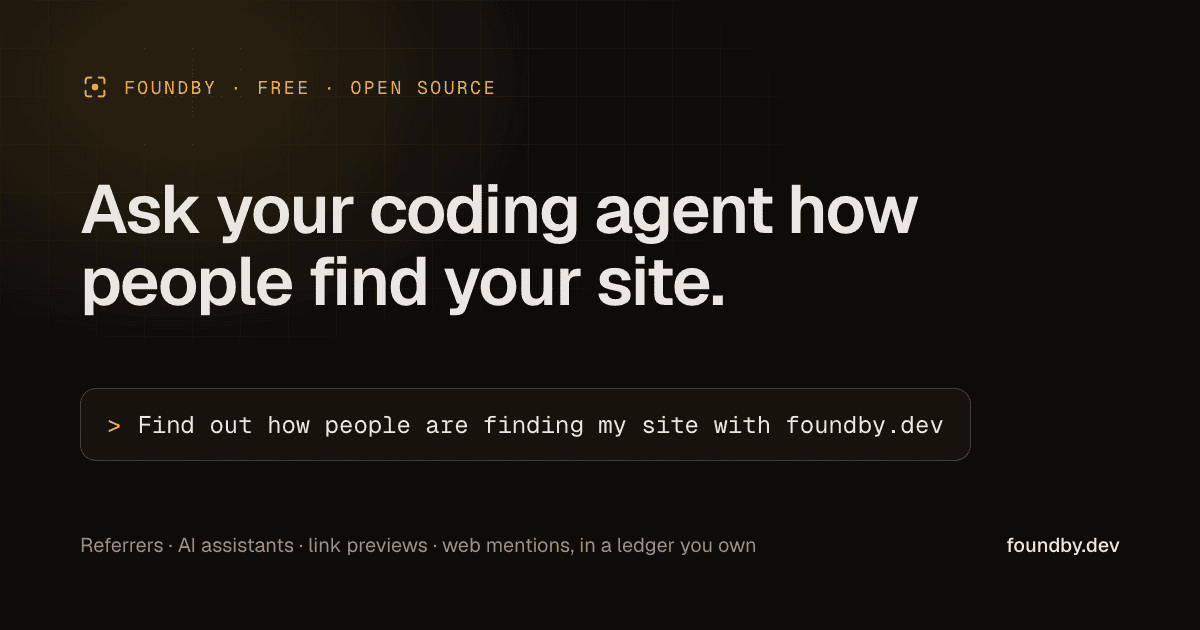
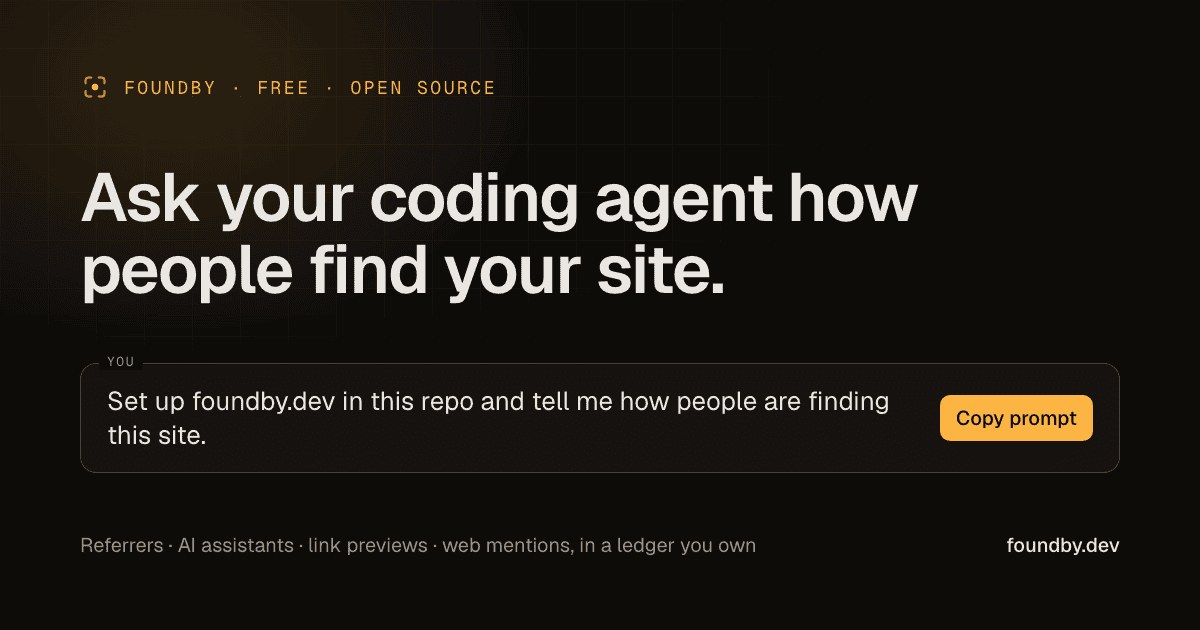
site: hero as a conversation, prompt as the install
The landing page CTA is a prompt to paste into a coding agent, so the
hero now stages it as one session: a "you" card holding the prompt with
the page's single amber Copy button, a faded connector explaining what
the agent does, and a "your agent" card with the report as the reply.
On load the prompt types itself, the connector fades in with its dotted
rule flowing downward, then the report lines arrive. Reduced motion and
no-JS get the complete static page.

Prompt reworded to "Set up foundby.dev in this repo and tell me how
people are finding this site." in index.html, llms.txt and README. OG
card redrawn to match and og.png regenerated.

Also: shorter lede, nav in page order, hero report trimmed to fit
without horizontal scroll, ledger excerpt under the How it works cards,
sources table stacks on phones, two new FAQ entries (what the prompt
does to the repo, manual install), manual-install hint moved out of the
hero, dim text lifted for contrast, prompt no longer hidden from screen
readers by an aria-label, copy_prompt GA event.

diff --git a/site/public/index.html b/site/public/index.html
@@ -83,7 +83,7 @@ gtag('js', new Date());
   :root {
     color-scheme: dark;
     --bg: oklch(0.155 0.006 70); --card: oklch(0.19 0.006 70); --card-2: oklch(0.215 0.006 70);
-    --fg: oklch(0.93 0.006 80); --muted: oklch(0.66 0.01 75); --dim: oklch(0.5 0.01 75);
+    --fg: oklch(0.93 0.006 80); --muted: oklch(0.68 0.01 75); --dim: oklch(0.58 0.01 75);
     --border: oklch(1 0 0 / 9%); --border-2: oklch(1 0 0 / 16%);
     --primary: oklch(0.82 0.15 75); --primary-fg: oklch(0.16 0.03 70); --primary-dim: oklch(0.82 0.15 75 / 14%);
     --link: oklch(0.8 0.08 230);
@@ -108,24 +108,39 @@ gtag('js', new Date());
   .hero { position: relative; padding: 56px 0 24px }
   .hero-glow { position: absolute; left: -10%; top: -40px; width: 60%; height: 320px; background: radial-gradient(ellipse at 30% 30%, oklch(0.82 0.15 75 / 12%), transparent 65%); pointer-events: none; filter: blur(10px) }
   h1 { font-size: clamp(2.1rem, 5.2vw, 3.4rem); line-height: 1.08; letter-spacing: -0.025em; font-weight: 600; margin: 0 0 20px; max-width: 760px; text-wrap: balance }
-  .lede { font-size: 1.15rem; color: var(--muted); max-width: 640px; margin: 0 0 30px }
-  .cta { display: flex; flex-wrap: wrap; gap: 12px; align-items: stretch; margin-bottom: 14px }
-  .prompt { display: flex; align-items: center; gap: 14px; background: var(--card); border: 1px solid var(--border-2); border-radius: 12px; padding: 14px 16px 14px 18px; font-family: var(--mono); font-size: 15px; cursor: pointer; text-align: left; color: var(--fg); max-width: 100%; transition: border-color .15s, box-shadow .15s }
-  .prompt:hover { border-color: var(--primary); box-shadow: 0 0 0 4px var(--primary-dim) }
-  .prompt .q { color: var(--primary) }
-  .prompt .copy { font-family: var(--sans); font-size: 12.5px; color: var(--muted); border: 1px solid var(--border); border-radius: 6px; padding: 3px 9px; white-space: nowrap }
-  .prompt.done .copy { color: var(--primary); border-color: var(--primary) }
-  .btn { display: inline-flex; align-items: center; gap: 8px; border-radius: 10px; padding: 12px 18px; font-weight: 500; font-size: 15px; border: 1px solid var(--border-2); color: var(--fg); background: transparent; text-decoration: none }
+  .lede { font-size: 1.15rem; color: var(--muted); max-width: 620px; margin: 0 0 36px }
+
+  /* The session: your turn (the prompt), then the agent's turn (the report). */
+  .turn { position: relative; border: 1px solid var(--border-2); border-radius: 14px; background: var(--card) }
+  .turn .who { position: absolute; top: -9px; left: 16px; font-family: var(--mono); font-size: .66rem; letter-spacing: .12em; text-transform: uppercase; color: var(--muted); background: var(--bg); padding: 0 7px; line-height: 18px }
+  .turn.you { display: flex; flex-wrap: wrap; align-items: center; justify-content: space-between; gap: 14px 24px; padding: 24px 20px 20px 24px; cursor: pointer; transition: border-color .15s, box-shadow .15s }
+  .turn.you:hover, .turn.you:focus-within { border-color: var(--primary); box-shadow: 0 0 0 4px var(--primary-dim) }
+  .turn.you .say { flex: 1 1 360px; margin: 0; font-size: 1.25rem; line-height: 1.4; letter-spacing: -0.012em; min-height: 1.4em }
+  .turn.you .say::after { content: ''; display: inline-block; width: 2px; height: 1.05em; background: var(--primary); margin-left: 3px; vertical-align: -0.18em; opacity: 0 }
+  .turn.you.typing .say::after { opacity: 1; animation: blink 1s steps(1) infinite }
+  @keyframes blink { 50% { opacity: 0 } }
+  .btn { display: inline-flex; align-items: center; gap: 8px; border-radius: 10px; padding: 12px 18px; font-weight: 500; font-size: 15px; border: 1px solid var(--border-2); color: var(--fg); background: transparent; text-decoration: none; font-family: var(--sans); cursor: pointer; white-space: nowrap }
   .btn:hover { text-decoration: none; border-color: var(--fg) }
   .btn.primary { background: var(--primary); color: var(--primary-fg); border-color: var(--primary) }
   .btn.primary:hover { filter: brightness(1.05) }
-  .hint { color: var(--dim); font-size: 14px; margin: 0 0 44px }
-  .hint code { color: var(--muted); font-size: 13px }
-  .term { background: oklch(0.12 0.005 70); border: 1px solid var(--border-2); border-radius: 14px; overflow: hidden; box-shadow: 0 30px 80px -30px oklch(0 0 0 / 60%) }
-  .term .bar { display: flex; align-items: center; gap: 8px; padding: 10px 14px; border-bottom: 1px solid var(--border); font-family: var(--mono); font-size: 12.5px; color: var(--muted) }
-  .term .bar i { width: 10px; height: 10px; border-radius: 50%; background: oklch(0.35 0.01 70); display: inline-block } .term .bar i:first-child { background: oklch(0.6 0.15 25) }
-  .term pre { margin: 0; padding: 18px 20px; font-size: 13px; line-height: 1.55; overflow-x: auto; color: oklch(0.85 0.006 80) }
-  .term .k { color: var(--primary) } .term .d { color: var(--dim) } .term .u { color: var(--link) }
+  .btn svg { width: 16px; height: 16px; flex: none }
+  .btn.copied { background: transparent; color: var(--primary); border-color: var(--primary) }
+  .between { display: flex; gap: 18px; align-items: flex-start; margin: 38px 0 42px 24px; color: var(--dim); font-size: 14.5px; line-height: 1.85; max-width: 720px; transition: opacity .6s }
+  .between::before { content: ''; flex: none; width: 2px; align-self: stretch; margin: 2px 0; background: linear-gradient(180deg, var(--border-2) 0 3px, transparent 3px 7px) 0 0 / 2px 7px repeat-y }
+  .between.flow::before { background-image: linear-gradient(180deg, var(--muted) 0 3px, transparent 3px 7px); animation: flow .6s linear infinite }
+  @keyframes flow { to { background-position: 0 7px } }
+  .js .between.pending { opacity: 0 }
+  .between p { margin: 0 }
+  .between code { color: var(--muted); font-size: 13px }
+  .turn.agent { background: oklch(0.12 0.005 70); box-shadow: 0 30px 80px -30px oklch(0 0 0 / 60%) }
+  .turn.agent pre { margin: 0; padding: 24px 20px 18px; font-size: 13px; line-height: 1.55; overflow-x: auto; color: oklch(0.85 0.006 80) }
+  .turn.agent .k { color: var(--primary) } .turn.agent .d { color: var(--dim) } .turn.agent .u { color: var(--link) }
+  .turn.agent { transition: opacity .5s } .js .turn.agent:not(.show) { opacity: 0 } .js .turn.agent:not(.show) .ln { opacity: 0 }
+  .turn.agent.show .ln { animation: rise .5s cubic-bezier(.2,.7,.2,1) both; animation-delay: calc(var(--i, 0) * 90ms) }
+  .hint { color: var(--dim); font-size: 14px; margin: 16px 0 0 }
+  .hint code { color: var(--fg); font-size: 13px; background: var(--card-2); border: 1px solid var(--border-2); border-radius: 6px; padding: 2px 7px; margin: 0 1px }
+  .hint a { color: var(--dim); text-decoration: underline; text-decoration-color: var(--border-2); text-underline-offset: 3px } .hint a:hover { color: var(--muted); text-decoration-color: var(--muted) }
+
   section { padding: 64px 0 0 }
   .section-head { display: flex; align-items: center; gap: 0.75rem; font-family: var(--mono); font-size: 0.7rem; letter-spacing: 0.14em; text-transform: uppercase; color: var(--primary); white-space: nowrap; margin: 0 0 14px }
   .section-head::before { content: ''; width: 1.25rem; height: 2px; background: var(--primary); opacity: .8 }
@@ -137,6 +152,10 @@ gtag('js', new Date());
   .card { background: var(--card); border: 1px solid var(--border); border-radius: 12px; padding: 18px 20px }
   .card .n { font-family: var(--mono); font-size: 0.7rem; letter-spacing: .12em; color: var(--primary); margin-bottom: 8px }
   .card p { color: var(--muted); font-size: 14.5px; margin: 0 }
+  .file { background: oklch(0.12 0.005 70); border: 1px solid var(--border); border-radius: 12px; overflow: hidden; margin-top: 14px }
+  .file .tab { display: flex; justify-content: space-between; gap: 12px; padding: 9px 16px; border-bottom: 1px solid var(--border); font-family: var(--mono); font-size: 12.5px; color: var(--muted) }
+  .file pre { margin: 0; padding: 16px 18px; font-size: 13px; line-height: 1.6; overflow-x: auto; color: oklch(0.85 0.006 80) }
+  .file .k { color: var(--primary) } .file .d { color: var(--dim) } .file .n2 { color: oklch(0.8 0.06 150) }
   table { width: 100%; border-collapse: collapse; font-size: 14.5px }
   th, td { text-align: left; padding: 10px 12px; border-bottom: 1px solid var(--border); vertical-align: top }
   th { font-family: var(--mono); font-size: .66rem; letter-spacing: .12em; text-transform: uppercase; color: var(--muted); font-weight: 500 }
@@ -151,8 +170,16 @@ gtag('js', new Date());
   footer a { color: var(--muted) }
   .rise { animation: rise .6s cubic-bezier(.2,.7,.2,1) both; animation-delay: calc(var(--i, 0) * 70ms) }
   @keyframes rise { from { opacity: 0; transform: translateY(10px) } to { opacity: 1; transform: none } }
-  @media (prefers-reduced-motion: reduce) { .rise { animation: none } }
-  @media (max-width: 640px) { nav a:not(:last-child) { display: none } .hero { padding-top: 32px } section { padding-top: 48px } }
+  @media (prefers-reduced-motion: reduce) { .rise, .turn.agent.show .ln, .between.flow::before { animation: none } }
+  @media (max-width: 640px) {
+    nav a:not(:last-child) { display: none } .hero { padding-top: 32px } section { padding-top: 48px }
+    .lede { font-size: 1.05rem } .turn.you { padding: 22px 16px 16px 18px } .turn.you .say { font-size: 1.1rem } .turn.you .btn { width: 100% ; justify-content: center }
+    .between { margin: 28px 0 32px 18px; gap: 14px }
+    .tbl table, .tbl tbody, .tbl tr, .tbl td { display: block } .tbl thead { display: none }
+    .tbl tr { padding: 14px 16px; border-bottom: 1px solid var(--border) } .tbl tr:last-child { border-bottom: 0 }
+    .tbl td { padding: 0 0 8px; border: 0; white-space: normal } .tbl td:first-child { font-size: 16px; padding-bottom: 10px }
+    .tbl td:not(:first-child)::before { content: attr(data-label); display: block; font-family: var(--mono); font-size: .62rem; letter-spacing: .12em; text-transform: uppercase; color: var(--dim); margin-bottom: 1px }
+  }
 </style>
 </head>
 <body>
@@ -164,8 +191,8 @@ gtag('js', new Date());
       foundby
     </a>
     <nav>
-      <a href="#sources">Sources</a>
       <a href="#how">How it works</a>
+      <a href="#sources">Sources</a>
       <a href="#faq">FAQ</a>
       <a href="https://github.com/preziotte/foundby">GitHub</a>
     </nav>
@@ -175,31 +202,34 @@ gtag('js', new Date());
     <div class="hero-glow" aria-hidden="true"></div>
     <p class="eyebrow rise" style="--i:0">Free · open source · runs in your coding agent</p>
     <h1 class="rise" style="--i:1">Ask your coding agent how people find your site.</h1>
-    <p class="lede rise" style="--i:2">foundby keeps a ledger in your repo of every way a person has ever reached your site: referring hosts, AI assistants, link previews, in-app browsers, backlinks and web mentions. Each run reports only what is new, and your agent looks up every new one and writes down what it is.</p>
-    <div class="cta rise" style="--i:3">
-      <button class="prompt" id="prompt" type="button" aria-label="Copy the prompt">
-        <span><span class="q">&gt;</span> Find out how people are finding my site with foundby.dev</span>
-        <span class="copy" id="copyLabel">copy</span>
+    <p class="lede rise" style="--i:2">foundby finds every place people arrive from: referrers, AI assistants, link previews, web mentions. It remembers them in your repo, tells you only what is new, and looks up each new one so you know what it is.</p>
+
+    <div class="turn you rise" id="you" style="--i:3" title="Click to copy">
+      <span class="who">you</span>
+      <p class="say" id="say">Set up foundby.dev in this repo and tell me how people are finding this site.</p>
+      <button class="btn primary" id="copyBtn" type="button">
+        <svg viewBox="0 0 24 24" fill="none" stroke="currentColor" stroke-width="2" stroke-linecap="round" stroke-linejoin="round" aria-hidden="true"><rect x="9" y="9" width="11" height="11" rx="2"/><path d="M5 15V6a2 2 0 0 1 2-2h9"/></svg>
+        <span id="copyLabel">Copy prompt</span>
       </button>
     </div>
-    <p class="hint rise" style="--i:4">Paste it into Claude Code, Codex, Cursor or any agent that reads a <code>SKILL.md</code>.<br>Or install by hand: <code>git clone https://github.com/preziotte/foundby .claude/skills/foundby</code></p>
-    <div class="term rise" style="--i:5">
-      <div class="bar"><i></i><i></i><i></i>&nbsp; /foundby</div>
-<pre>FOUNDBY · example.com · new since 2026-10-22 (7d window, 184 rows in ledger)
-
-  <span class="k">NEW</span>  blog      skinnypuppy.eu                              25  via edge
-  <span class="k">NEW</span>  video     youtube.com                                  3  via web  <span class="u">youtube.com/watch?v=…</span>
-  <span class="k">NEW</span>  forum     news.ycombinator.com                         9  via edge,web
-  <span class="k">NEW</span>  directory github:someone/awesome-music-tools           0  via web  <span class="u">github.com/someone/awesome-music-tools</span>
-  <span class="k">NEW</span>  unfurler  unfurl:Discord                              14  via edge
-  <span class="d">junk (3): 185.220.101.4, seo-tools.xyz, translate.goog</span>
-  <span class="k">PAGE</span> forum     reddit.com                                        <span class="u">reddit.com/r/WeAreTheMusicMakers/comments/…</span>
-  <span class="k">SURGE</span> search   duckduckgo.com                              41  was ~2.1/day
-
-  <span class="d">sources: edge 2026-10-22..2026-10-29 (168h) · ga 2026-10-22..2026-10-29 · mentions hn:1 github:4 bluesky:2 lobsters:0 youtube:3 · bing API returns no links for this site</span>
-
-  to look up (3): skinnypuppy.eu, news.ycombinator.com, youtube.com</pre>
+    <div class="between pending" id="between">
+      <p>Paste it into Claude Code, Codex or Cursor.<br>Your agent reads foundby.dev, clones the skill into <code>.claude/skills</code> and comes back with this:</p>
     </div>
+    <div class="turn agent" id="agent">
+      <span class="who">your agent · a minute later</span>
+<pre><span class="ln" style="--i:0">FOUNDBY · example.com · new since 2026-10-22 (184 rows in ledger)</span>
+
+<span class="ln" style="--i:1">  <span class="k">NEW</span>   blog       skinnypuppy.eu                           25</span>
+<span class="ln" style="--i:2">  <span class="k">NEW</span>   video      youtube.com                               3   <span class="u">youtube.com/watch?v=…</span></span>
+<span class="ln" style="--i:3">  <span class="k">NEW</span>   forum      news.ycombinator.com                      9</span>
+<span class="ln" style="--i:4">  <span class="k">NEW</span>   directory  github:someone/awesome-music-tools        0   <span class="u">github.com/someone/awesome-music-tools</span></span>
+<span class="ln" style="--i:5">  <span class="k">NEW</span>   unfurler   unfurl:Discord                           14</span>
+<span class="ln" style="--i:6">  <span class="k">SURGE</span> search     duckduckgo.com                           41   was ~2.1/day</span>
+<span class="ln" style="--i:7">  <span class="d">junk (3): 185.220.101.4, seo-tools.xyz, translate.goog</span></span>
+
+<span class="ln" style="--i:8">  to look up (3): skinnypuppy.eu, news.ycombinator.com, youtube.com</span></pre>
+    </div>
+    <p class="hint rise" style="--i:4">From then on, run <code>/foundby</code> whenever you like. It reports only what is new since the last run.</p>
   </section>
 
   <section id="how">
@@ -208,8 +238,19 @@ gtag('js', new Date());
     <p class="muted" style="max-width:680px">Mention trackers and backlink tools list hosts. They do not open each one, decide that this one is a Spanish AI-music tutorial worth a thank-you and that one is a parked domain never to be shown again, and write that into a file you own. That is the part that makes the report readable, and it is only cheap because the agent is already there.</p>
     <div class="grid" style="margin-top:20px">
       <div class="card"><div class="n">01 · remembers</div><h3>A ledger, not a dashboard</h3><p>Every host, agent and platform ever seen, with first-seen date, kind and a note, in <code>docs/foundby.md</code> next to your code. Each run covers exactly the gap since the last one. Junk surfaces once.</p></div>
-      <div class="card"><div class="n">02 · looks up</div><h3>One line per new host</h3><p>The report ends with the hosts worth a look. The agent fetches each, searches for the page that links you, and records a kind and a one-line note. Hand edits in the markdown stick.</p></div>
-      <div class="card"><div class="n">03 · yours</div><h3>No service, no account</h3><p>Runs on your machine with your credentials. State is two files in your repo. Client IPs are never read. Nothing is sent anywhere that you did not already pay for.</p></div>
+      <div class="card"><div class="n">02 · explains</div><h3>One line per new host</h3><p>The report ends with the hosts worth a look. The agent fetches each, searches for the page that links you, and records a kind and a one-line note. Hand edits in the markdown stick.</p></div>
+      <div class="card"><div class="n">03 · stays yours</div><h3>No service, no account</h3><p>Runs on your machine with your credentials. State is two files in your repo. Client IPs are never read. Nothing is sent anywhere that you did not already pay for.</p></div>
+    </div>
+    <div class="file">
+      <div class="tab"><span>docs/foundby.md</span><span>the ledger, after the agent has looked things up</span></div>
+<pre><span class="d"># How people find example.com</span>
+
+| key                  | kind     | first seen | last seen  | hits | via  | note |
+|---|---|---|---|---|---|---|
+| `skinnypuppy.eu`     | <span class="k">blog</span>     | 2026-10-24 | 2026-10-29 |   25 | edge | <span class="n2">Fan site, links from a tutorial page</span> |
+| `youtube.com`        | <span class="k">video</span>    | 2026-10-23 | 2026-10-29 |    3 | web  | <span class="n2">Walkthrough, link in description</span> |
+| `unfurl:Discord`     | <span class="k">unfurler</span> | 2026-10-26 | 2026-10-29 |   14 | edge | <span class="n2">Pasted into a server, count only</span> |
+| `seo-tools.xyz`      | <span class="k">junk</span>     | 2026-10-22 | 2026-10-22 |    1 | edge | <span class="n2">Scraper. Never shown again</span> |</pre>
     </div>
   </section>
 
@@ -221,10 +262,10 @@ gtag('js', new Date());
       <table>
         <thead><tr><th>Source</th><th>Sees</th><th>Blind to</th><th>Needs</th></tr></thead>
         <tbody>
-          <tr><td>Mention search</td><td>Pages that talk about your site whether or not anyone clicked: Hacker News, GitHub code (awesome lists, READMEs), Bluesky, Lobsters, YouTube video descriptions, Reddit</td><td>X, Instagram, TikTok</td><td>Nothing. <code>gh auth login</code> for GitHub</td></tr>
-          <tr><td>Google Analytics 4</td><td>utm and gclid sources, GA's AI Assistant channel, in-app browsers (TikTok, Instagram), referring <em>pages</em> with three custom dimensions</td><td>Anything without JavaScript: agents, unfurlers, ad-blocked visitors</td><td>A service account on the property</td></tr>
-          <tr><td>CDN edge logs</td><td>Every request: referrers without JS, link unfurlers (each one a private share in Slack, Discord, iMessage), AI live-fetch agents (ChatGPT-User, Claude-User, Perplexity-User)</td><td>Native apps and email clients send no Referer</td><td>CloudFront standard logs in S3, the aws CLI</td></tr>
-          <tr><td>Bing Webmaster</td><td>The backlinks Bing knows about, via the only free backlink API</td><td>Most backlinks; often empty</td><td>An API key</td></tr>
+          <tr><td>Mention search</td><td data-label="Sees">Pages that talk about your site whether or not anyone clicked: Hacker News, GitHub code (awesome lists, READMEs), Bluesky, Lobsters, YouTube video descriptions, Reddit</td><td data-label="Blind to">X, Instagram, TikTok</td><td data-label="Needs">Nothing. <code>gh auth login</code> for GitHub</td></tr>
+          <tr><td>Google Analytics 4</td><td data-label="Sees">utm and gclid sources, GA's AI Assistant channel, in-app browsers (TikTok, Instagram), referring <em>pages</em> with three custom dimensions</td><td data-label="Blind to">Anything without JavaScript: agents, unfurlers, ad-blocked visitors</td><td data-label="Needs">A service account on the property</td></tr>
+          <tr><td>CDN edge logs</td><td data-label="Sees">Every request: referrers without JS, link unfurlers (each one a private share in Slack, Discord, iMessage), AI live-fetch agents (ChatGPT-User, Claude-User, Perplexity-User)</td><td data-label="Blind to">Native apps and email clients send no Referer</td><td data-label="Needs">CloudFront standard logs in S3, the aws CLI</td></tr>
+          <tr><td>Bing Webmaster</td><td data-label="Sees">The backlinks Bing knows about, via the only free backlink API</td><td data-label="Blind to">Most backlinks; often empty</td><td data-label="Needs">An API key</td></tr>
         </tbody>
       </table>
     </div>
@@ -234,7 +275,7 @@ gtag('js', new Date());
   <section id="use">
     <div class="section-head">Without an agent</div>
     <h2>The scripts work on their own.</h2>
-    <p class="muted" style="max-width:680px">Python 3.10+, standard library only (plus <code>cryptography</code> for the GA token). One <code>foundby.json</code> in your repo.</p>
+    <p class="muted" style="max-width:680px">Python 3.10+, standard library only (plus <code>cryptography</code> for the GA token). One <code>foundby.json</code> in your repo. Cloning into <code>.claude/skills</code> is also the manual install for the agent.</p>
 <pre class="code">git clone https://github.com/preziotte/foundby .claude/skills/foundby
 python3 .claude/skills/foundby/scripts/foundby.py init example.com
 python3 .claude/skills/foundby/scripts/foundby.py doctor
@@ -245,7 +286,9 @@ python3 .claude/skills/foundby/scripts/foundby.py view</pre>
 
   <section id="faq" class="faq">
     <div class="section-head">FAQ</div>
-    <details open><summary>What does this see that Google Analytics does not?</summary><p>Pages that mention your site whether or not anyone clicked (Hacker News, GitHub, Bluesky, YouTube descriptions), link previews fired when someone pastes your URL into Slack, Discord or iMessage, AI assistants fetching a page to answer a question, and referring pages rather than just hosts. It also reads GA itself, so you get the union.</p></details>
+    <details open><summary>What will the prompt actually do to my repo?</summary><p>Your agent fetches foundby.dev, which points it at the GitHub repo and <code>SKILL.md</code>. It clones the skill into <code>.claude/skills/foundby</code>, writes a <code>foundby.json</code> with your domain, runs <code>doctor</code> to see which sources you already have credentials for, and asks before wiring any that need setup. Then it runs the first report and writes the ledger to <code>docs/foundby.md</code>. Every step is a plain Python script you can read first.</p></details>
+    <details><summary>Can I install it by hand, or use it without an agent?</summary><p>Yes. Clone the repo into <code>.claude/skills/foundby</code> and your agent picks it up as a skill. The scripts also run on their own from a shell with no agent at all: see <a href="#use">Without an agent</a>.</p></details>
+    <details><summary>What does this see that Google Analytics does not?</summary><p>Pages that mention your site whether or not anyone clicked (Hacker News, GitHub, Bluesky, YouTube descriptions), link previews fired when someone pastes your URL into Slack, Discord or iMessage, AI assistants fetching a page to answer a question, and referring pages rather than just hosts. It also reads GA itself, so you get the union.</p></details>
     <details><summary>Is anything sent to a server?</summary><p>No. There is no foundby service. The scripts run on your machine, call the public APIs and your own analytics and log bucket with your credentials, and write two files into your repo. Client IPs are never read from logs.</p></details>
     <details><summary>Do I need Google Analytics or CDN logs?</summary><p>No. A site with only a domain gets the mention search. GA4, CloudFront logs and Bing backlinks are optional and each one adds a layer. <code>doctor</code> looks at what you have and says which would add the most.</p></details>
     <details><summary>Why does an agent need to be involved?</summary><p>The scripts find new hosts. The agent fetches each one and decides what it is: a tutorial worth a thank-you, a directory that listed you, a parked domain never to be shown again. That one-line note is what makes the ledger readable, and it is only cheap because the agent is already there.</p></details>
@@ -264,12 +307,35 @@ python3 .claude/skills/foundby/scripts/foundby.py view</pre>
 </div>
 <script>
   (function () {
-    var btn = document.getElementById('prompt'), label = document.getElementById('copyLabel');
-    var text = 'Find out how people are finding my site with foundby.dev';
-    btn.addEventListener('click', function () {
-      var done = function () { btn.classList.add('done'); label.textContent = 'copied'; setTimeout(function () { btn.classList.remove('done'); label.textContent = 'copy'; }, 1600); };
+    document.documentElement.classList.add('js');
+    var you = document.getElementById('you'), btn = document.getElementById('copyBtn'), label = document.getElementById('copyLabel');
+    var say = document.getElementById('say'), agent = document.getElementById('agent'), between = document.getElementById('between');
+    var text = 'Set up foundby.dev in this repo and tell me how people are finding this site.';
+    var timer;
+    function copy(e) {
+      if (e && e.target.closest && e.target.closest('a')) return;
+      var done = function () {
+        btn.classList.add('copied'); label.textContent = 'Copied. Now paste it';
+        if (window.gtag) gtag('event', 'copy_prompt');
+        clearTimeout(timer); timer = setTimeout(function () { btn.classList.remove('copied'); label.textContent = 'Copy prompt'; }, 3200);
+      };
       if (navigator.clipboard) navigator.clipboard.writeText(text).then(done, done); else done();
-    });
+    }
+    you.addEventListener('click', copy);
+    btn.addEventListener('click', function (e) { e.stopPropagation(); copy(); });
+
+    // Once, on load: the prompt types itself, then the report arrives. The text is in the
+    // DOM already, so without JS or with reduced motion the page is complete as served.
+    var reduce = window.matchMedia && window.matchMedia('(prefers-reduced-motion: reduce)').matches;
+    if (reduce) { between.classList.remove('pending'); agent.classList.add('show'); return; }
+    say.textContent = '';
+    you.classList.add('typing');
+    var i = 0;
+    setTimeout(function tick() {
+      say.textContent = text.slice(0, ++i);
+      if (i < text.length) setTimeout(tick, text[i - 1] === ' ' ? 55 : 28);
+      else setTimeout(function () { you.classList.remove('typing'); between.classList.remove('pending'); between.classList.add('flow'); setTimeout(function () { between.classList.remove('flow'); agent.classList.add('show'); }, 1500); }, 450);
+    }, 700);
   })();
 </script>
 </body>

diff --git a/site/og.html b/site/og.html
@@ -10,7 +10,9 @@
   .eyebrow{font-family:"Geist Mono",ui-monospace,monospace;font-size:18px;letter-spacing:.14em;text-transform:uppercase;color:oklch(0.82 0.15 75);display:flex;align-items:center;gap:14px}
   .eyebrow svg{width:30px;height:30px}
   h1{font-size:68px;line-height:1.06;letter-spacing:-.025em;font-weight:600;margin:0;max-width:980px}
-  .prompt{display:inline-flex;align-items:center;gap:16px;background:oklch(0.19 0.006 70);border:1px solid oklch(1 0 0 / 18%);border-radius:16px;padding:20px 26px;font-family:"Geist Mono",ui-monospace,monospace;font-size:24px;color:oklch(0.93 0.006 80);align-self:flex-start}
+  .prompt{display:inline-flex;align-items:center;gap:16px;background:oklch(0.19 0.006 70);border:1px solid oklch(1 0 0 / 18%);border-radius:16px;padding:20px 26px;font-family:"Geist",ui-sans-serif,system-ui,sans-serif;font-size:26px;color:oklch(0.93 0.006 80);align-self:flex-start;position:relative}
+  .prompt .who{position:absolute;top:-11px;left:18px;font-family:"Geist Mono",ui-monospace,monospace;font-size:13px;letter-spacing:.12em;text-transform:uppercase;color:oklch(0.66 0.01 75);background:oklch(0.155 0.006 70);padding:0 8px}
+  .prompt .btn{background:oklch(0.82 0.15 75);color:oklch(0.16 0.03 70);border-radius:10px;padding:10px 16px;font-size:20px;font-weight:500;white-space:nowrap}
   .prompt .q{color:oklch(0.82 0.15 75)}
   .foot{display:flex;justify-content:space-between;font-size:20px;color:oklch(0.66 0.01 75)}
   .foot b{color:oklch(0.93 0.006 80);font-weight:500}
@@ -19,6 +21,6 @@
 <div class="wrap">
   <div class="eyebrow"><svg viewBox="0 0 24 24" fill="none"><path d="M4.5 9V6.5A2 2 0 0 1 6.5 4.5H9M15 4.5h2.5a2 2 0 0 1 2 2V9M19.5 15v2.5a2 2 0 0 1-2 2H15M9 19.5H6.5a2 2 0 0 1-2-2V15" stroke="oklch(0.82 0.15 75)" stroke-width="1.8" stroke-linecap="round" fill="none" opacity=".75"/><circle cx="12" cy="12" r="2.6" fill="oklch(0.82 0.15 75)"/></svg>foundby · free · open source</div>
   <h1>Ask your coding agent how people find your site.</h1>
-  <div class="prompt"><span class="q">&gt;</span> Find out how people are finding my site with foundby.dev</div>
+  <div class="prompt"><span class="who">you</span><span>Set up foundby.dev in this repo and tell me how people are finding this site.</span><span class="btn">Copy prompt</span></div>
   <div class="foot"><span>Referrers · AI assistants · link previews · web mentions, in a ledger you own</span><b>foundby.dev</b></div>
 </div></body></html>

diff --git a/README.md b/README.md
@@ -3,7 +3,7 @@
 Ask your coding agent how people find your site.
 
 ```
-Find out how people are finding my site with foundby.dev
+Set up foundby.dev in this repo and tell me how people are finding this site.
 ```
 
 foundby is a skill for Claude Code (and any agent that reads `SKILL.md`) plus a few Python
